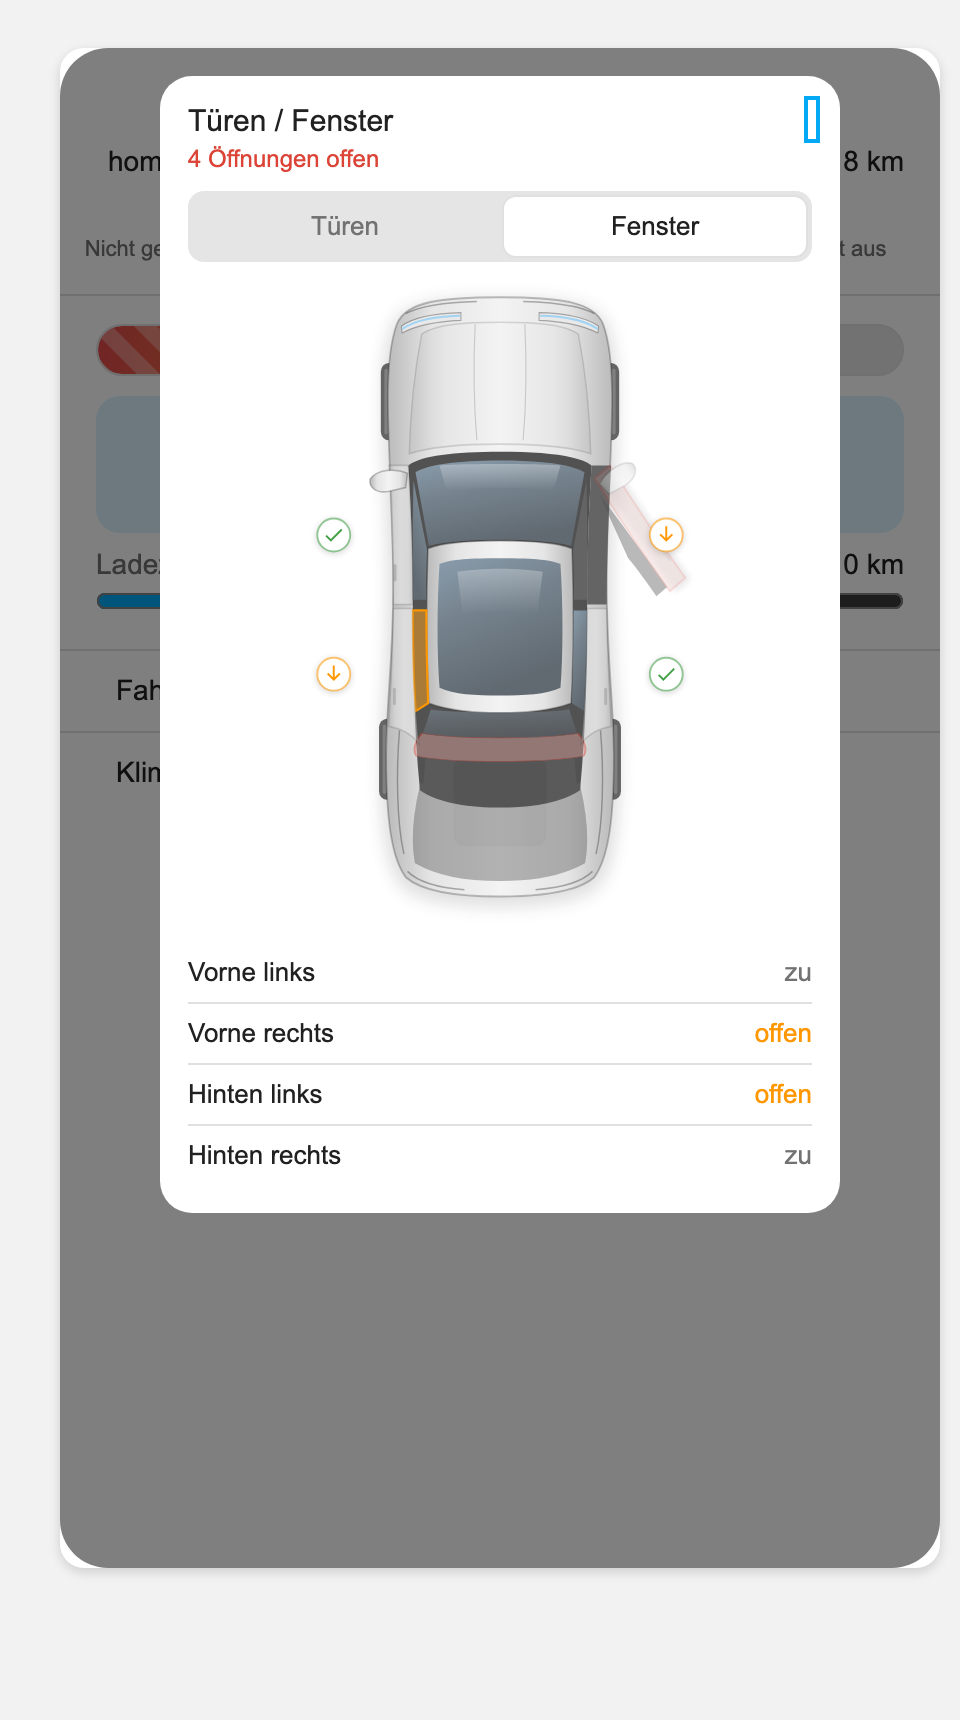
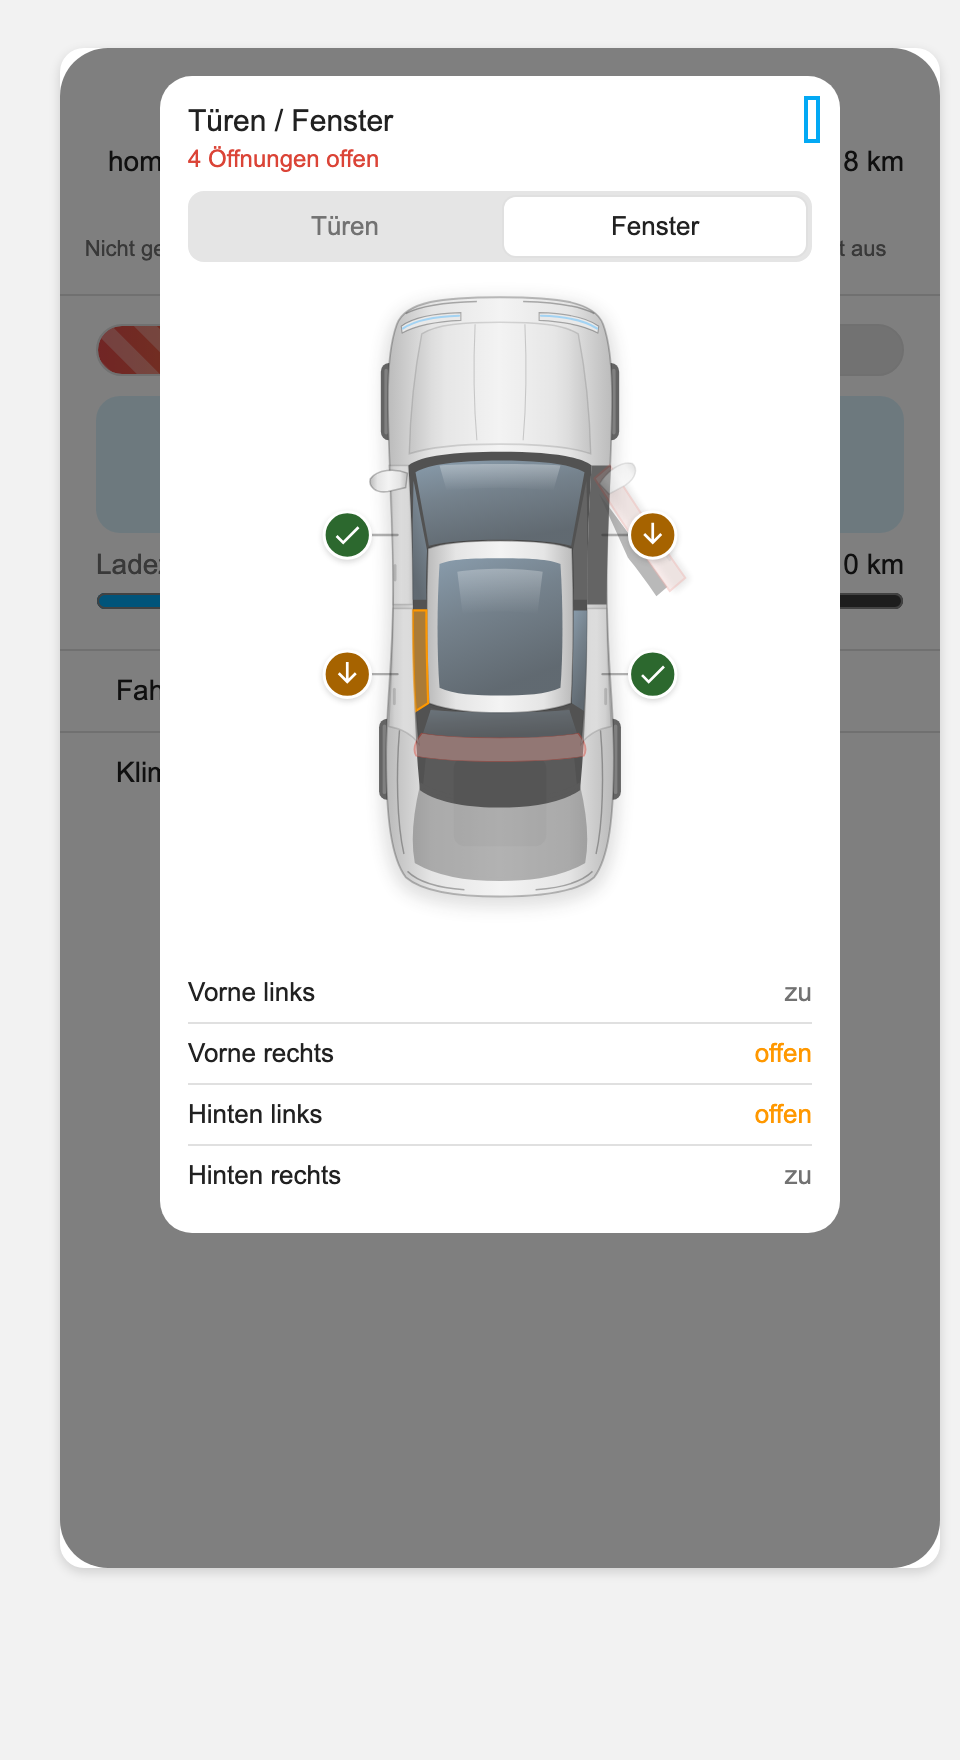
fix: status badges on the car are filled, larger and tied to their door by a line

diff --git a/custom_components/audiconnect/www/audi-connect-card.js b/custom_components/audiconnect/www/audi-connect-card.js
@@ -206,6 +206,10 @@ select{background:var(--secondary-background-color);color:var(--primary-text-col
 .car .pn.open{fill:var(--c-open);stroke:var(--error-color)}
 .car .wn.open{fill:var(--c-win);stroke:var(--warning-color)}
 .car .hit{cursor:pointer}
+.car .bd{fill:var(--secondary-text-color)}
+.car .bd.lk{fill:color-mix(in srgb,var(--success-color) 65%,#000)}
+.car .bd.ul,.car .bd.win{fill:color-mix(in srgb,var(--warning-color) 65%,#000)}
+.car .bd.open{fill:color-mix(in srgb,var(--error-color) 72%,#000)}
 .li{display:flex;justify-content:space-between;padding:7px 0;border-bottom:1px solid var(--divider-color);font-size:13px;color:var(--primary-text-color);cursor:pointer}
 .li:last-of-type{border:0}
 .c-ok{color:var(--success-color)}.c-warn{color:var(--warning-color)}.c-bad{color:var(--error-color)}.c-mute{color:var(--secondary-text-color)}
@@ -217,6 +221,7 @@ select{background:var(--secondary-background-color);color:var(--primary-text-col
 @supports not (color:color-mix(in srgb,red,blue)){
 .band,.cstatus,.pill.on,.stp:active,.pill:active,.note.bad{background:var(--secondary-background-color)}
 .cell+.cell{border-left-color:var(--divider-color)}
+.car .bd.lk{fill:var(--success-color)}.car .bd.ul,.car .bd.win{fill:var(--warning-color)}.car .bd.open{fill:var(--error-color)}
 .car{--c-edge:var(--divider-color);--c-mid:var(--card-background-color);--c-line:var(--divider-color);--c-bodyline:var(--divider-color);--c-trim:var(--secondary-text-color);--c-cavity:var(--secondary-text-color);--c-engine:var(--secondary-text-color);--c-gl-a:var(--secondary-text-color);--c-gl-b:var(--secondary-text-color);--c-gl-c:var(--secondary-text-color);--c-tail:var(--error-color);--c-head:var(--secondary-background-color);--c-drl:#8cc8f0;--c-ul:var(--secondary-background-color);--c-open:var(--secondary-background-color);--c-win:var(--secondary-background-color)}
 }
 @media (prefers-reduced-motion:reduce){.bar.charging::before,.pulse,.cstatus ha-icon,.pill.wait ha-icon{animation:none}}
@@ -882,16 +887,18 @@ class AudiConnectCard extends HTMLElement {
     const pn = (d, kind) => `<path d="${d}" class="pn ${kind}"${kind === "lk" || kind === "unk" ? ' fill="url(#acbody)"' : ""}/>`;
     const badge = (x, y, kind, icon) =>
       `<g transform="translate(${x} ${y})" style="pointer-events:none">` +
-      `<circle r="9" cy=".8" fill="var(--primary-text-color)" opacity=".18" filter="url(#acsoft)"/>` +
-      `<circle r="8.5" fill="var(--card-background-color)" stroke="${COL[kind]}" stroke-opacity=".55" stroke-width="1"/>` +
-      `<path transform="translate(-6 -6) scale(.5)" fill="${COL[kind]}" d="${C.ICON[icon]}"/></g>`;
+      `<circle r="12.5" cy="1.2" fill="var(--primary-text-color)" opacity=".2" filter="url(#acsoft)"/>` +
+      `<circle class="bd ${kind}" r="12" stroke="var(--card-background-color)" stroke-width="1.6"/>` +
+      `<path transform="translate(-8.4 -8.4) scale(.7)" fill="#fff" d="${C.ICON[icon]}"/></g>`;
+    // thin line from the car's flank to the badge, so it is clear what it belongs to
+    const lead = (y, side) => `<path d="M${side === "r" ? 203 : mx(203)} ${y}H${side === "r" ? 217 : mx(217)}" stroke="var(--c-line)" stroke-width="1.2" stroke-linecap="round"/>`;
     const mirror = `<path d="${C.MIRROR}" fill="url(#acbody)" stroke="var(--c-bodyline)" stroke-width=".8"/>`;
     const hood = this._doorState("hood");
     const trunk = this._doorState("trunk");
     const trunkOpen = trunk.open;
     const trunkKind = kindOf("trunk");
 
-    let s = `<svg class="car" viewBox="0 0 300 342"><defs>` +
+    let s = `<svg class="car" viewBox="0 0 300 352"><defs>` +
       `<linearGradient id="acbody" x1="0" x2="1"><stop offset="0" style="stop-color:var(--c-edge)"/><stop offset=".2" style="stop-color:var(--secondary-background-color)"/>` +
       `<stop offset=".5" style="stop-color:var(--c-mid)"/><stop offset=".8" style="stop-color:var(--secondary-background-color)"/><stop offset="1" style="stop-color:var(--c-edge)"/></linearGradient>` +
       `<linearGradient id="acglass" x1="0" y1="0" x2=".35" y2="1"><stop offset="0" style="stop-color:var(--c-gl-a)"/><stop offset=".45" style="stop-color:var(--c-gl-b)"/><stop offset="1" style="stop-color:var(--c-gl-c)"/></linearGradient>` +
@@ -962,9 +969,9 @@ class AudiConnectCard extends HTMLElement {
         }
         if (doorsTab) {
           if (kind === "open") badges += badge(side === "r" ? 268 : mx(268), C.DOOR_CY[pos] + 8, "open", "open");
-          else badges += badge(side === "r" ? 236 : mx(236), C.DOOR_CY[pos], kind, kind === "lk" ? "lock" : kind === "unk" ? "help" : "unlock");
+          else badges += lead(C.DOOR_CY[pos], side) + badge(side === "r" ? 229 : mx(229), C.DOOR_CY[pos], kind, kind === "lk" ? "lock" : kind === "unk" ? "help" : "unlock");
         } else {
-          badges += badge(side === "r" ? 236 : mx(236), C.DOOR_CY[pos], wopen ? "win" : "lk", wopen ? "down" : "check");
+          badges += lead(C.DOOR_CY[pos], side) + badge(side === "r" ? 229 : mx(229), C.DOOR_CY[pos], wopen ? "win" : "lk", wopen ? "down" : "check");
         }
       }
       s += `<g${tf}>${closed}</g>`;
@@ -983,7 +990,7 @@ class AudiConnectCard extends HTMLElement {
     hits += zone("seg", this._id(DOOR_KEYS.hood), "M96 8H204V92H96Z") + zone("seg", this._id(DOOR_KEYS.trunk), "M96 236H204V342H96Z");
     s += `<g fill="transparent">${hits}</g></g>`;
     if (doorsTab) {
-      s += trunkOpen ? badge(150, 332, "open", "open") : badge(150, 332, trunkKind, trunkKind === "lk" ? "lock" : trunkKind === "unk" ? "help" : "unlock");
+      s += trunkOpen ? badge(150, 337, "open", "open") : badge(150, 337, trunkKind, trunkKind === "lk" ? "lock" : trunkKind === "unk" ? "help" : "unlock");
       if (hood.open) s += badge(150, 52, "open", "open");
     }
     return s + badges + "</svg>";
